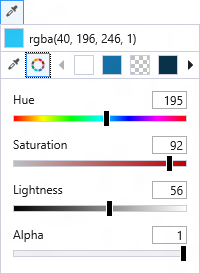
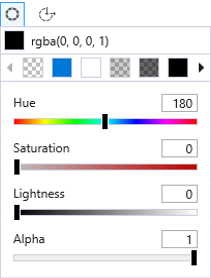
Small changes and updates to the DOM Explorer pages

diff --git a/f12-devtools-guide/dom-explorer/README.md b/f12-devtools-guide/dom-explorer/README.md
@@ -3,7 +3,7 @@
 Use the DOM Explorer tool to see the state of your webpage's DOM (Document Object Model), examine HTML structure and CSS styles, and test changes to solve display issues.
 
 ## Enter the DOM
-HTML and CSS files are the blueprints a browser uses to build the DOM (Document Object Model), which it then uses to render a webpage. The **DOM Explorer** tool shows you a webpage's integrated structure and allows you to change styles, move HTML elements, and change element attributes without having to edit the page's source files.
+HTML and CSS files are the blueprints a browser uses to build the DOM (Document Object Model), which it then uses to render a webpage. The **DOM Explorer** tool shows you a webpage's integrated structure and allows you to change styles, move and edit HTML elements, and change element attributes without having to edit the page's source files.
 
 This helps you diagnose problems in live code when elements aren't in the right place or don't behave as expected, and then work to solve them.
 
@@ -27,18 +27,17 @@ There are five ways to select an element to inspect:
 
 ![video](../media/Edge_DomExplorer_selectelement.mp4,../media/Edge_DomExplorer_selectelement.webm)  
 
-When an element has been inspected, it's highlighted.
+When an element has been inspected, it's highlighted if **DOM element highlighting** is enabled.
 
 ![Edge DOM Explorer](../media/Edge_DOMExplorer_elementhighlighting.PNG)
 
 
-The highlight displays not only the element boundaries *(blue)*, but the boundaries of its padding *(pink)*, borders *(green)*, and margin *(yellow)*. It can be toggled on or off using the second button to the right of the **DOM Explorer** tool's title.
+The highlight displays not only the element boundaries *(blue)*, but the boundaries of its padding *(pink)*, borders *(green)*, and margin *(yellow)*. It can be toggled on or off using the second button to the right of the **DOM Explorer** tool's title or by pressing CTRL + SHIFT + I.
 
 ### Editing an element
 There are three ways to edit an element:
 
-  - **Edit attributes:** You can edit an attribute by double-clicking it, or selecting the element, pressing **Enter**, and then tabbing through the attributes.
-
+  - **Edit attributes:** You can edit an attribute by double-clicking it; or after selecting the element, by pressing **Enter**, and then tabbing through the attributes.
    When you edit a class attribute, a list of matching classes from your styles are suggested. Double-click a suggestion or navigate to it with your arrow keys and press **Tab** or **Enter** to select it.
 
   - **Add an attribute:** Right-click the element and click **Add attribute**.
@@ -47,7 +46,7 @@ There are three ways to edit an element:
 
 ![video](../media/Edge_DomExplorer_editingelement.mp4,../media/Edge_DomExplorer_editingelement.webm)  
 
-**Important**  The doctype, html, head, body, and script elements can't be edited as HTML in the DOM Explorer.
+> The doctype, html, head, body, and script elements can't be edited as HTML in the DOM Explorer.
 
 If your changes don't produce the desired result, press CTRL + Z to undo the last change. CTRL + Y will redo the change.
 
@@ -59,14 +58,19 @@ Elements can be moved in two ways:
   - **Cut/copy, and paste:** Use right-click context menus or keyboard shortcuts to cut, copy, and paste elements.
    When you copy an element and then paste with CTRL + V, the element on the clipboard is pasted in as a child of the selected   element. Right-click the element to use the **Paste before** option from the context menu.
 
-  **Note**  Don't use the **Copy element with styles** option in the context menu to move an element within the DOM. It places an HTML document containing the element and all its related styles on the clipboard for pasting to an external editor.
+ > Don't use the **Copy element with styles** option in the context menu to move an element within the DOM. It places an HTML document containing the element and all its related styles on the clipboard for pasting to an external editor.
 
 ![video](../media/Edge_DomExplorer_dragdrop.mp4,../media/Edge_DomExplorer_dragdrop.webm) 
+
+### Color picker
+Next to the element selection and highlighting buttons at the top of the DOM Explorer tab is the color picker. You can open the picker pane by clicking the button or pressing CTRL + K. At the top of the pane are common colors from the current document for ease of access, and beneath those suggestions are sliders which let you create a custom color.
+
+![Edge Color picker](../media/colorpicker.png) 
 
 ### The styles pane
 The **styles pane** provides different views for looking at what styles are being applied to the element and what code is being triggered by events associated with it.
 
-The styles pane has five tabs: [Styles](#styles), [Computed](#computed), [Layout](#layout), [Events](#events), and [Changes](#changes), in addition to the [Pseudo State](#pseudo-state) selector and the [Color Picker](#color-picker).
+The styles pane has six tabs: [Styles](#styles), [Computed](#computed), [Layout](#layout), [Events](#events), [Changes](#changes), and [Accessibility](./accessibility-tools) (covered in a separate section). In addition, there is a button in the pane for the [Pseudo State](#pseudo-state) selector.
 
 ![video](../media/Edge_DomExplorer_stylespane.mp4,../media/Edge_DomExplorer_stylespane.webm)  
 
@@ -75,7 +79,7 @@ The **Styles** tab is a list of all the styles associated with the selected elem
 
 Style properties currently applied to the element appear on the top of the style pane, along with a link to the .css file path, line #, and column # where that style is defined. Inherited styles are listed below, identifying which ancestor the inherited styles come from.
 
-You can turn style property on or off by checking or unchecking the box to the left of the property. When unchecked, the style will be crossed out and an inherited style below may become active (removing it's strikeout). The style pane also breaks out which styles are being applied due to [CSS media queries](https://msdn.microsoft.com/library/bg124120.aspx).
+You can turn style property on or off by checking or unchecking the box to the left of the property. When unchecked, the style will be crossed out and an inherited style below may become active (removing its strikeout). The style pane also breaks out which styles are being applied due to [CSS media queries](https://msdn.microsoft.com/library/bg124120.aspx).
 
 ![video](../media/Edge_DomExplorer_inheritingstyles.mp4,../media/Edge_DomExplorer_inheritingstyles.webm) 
 
@@ -83,9 +87,9 @@ The style pane updates in real time, so if you have media queries based on windo
 
 #### Editing styles
 
-To edit a rule name or property, click it. When typing a property name, matching CSS property names are suggested. When typing a property value, if that property has a defined set of possible values, matching values are suggested. Double-click a suggestion or navigate to it with your arrow keys and press Tab or **Enter** to select it.
+To edit a rule name or property, click it. When typing a property name, matching CSS property names are suggested. When typing a property value, if that property has a defined set of possible values, matching values are suggested. Double-click a suggestion or navigate to it with your arrow keys and press **Tab** or **Enter** to select it.
 
-To add a new rule or add a property to an existing rule, right-click in the tab and click **Add rule** or Add property.
+To add a new rule or add a property to an existing rule, right-click in the tab and click **Add rule** or **Add property**.
 
 ![video](../media/Edge_DomExplorer_editingstyles.mp4,../media/Edge_DomExplorer_editingstyles.webm) 
 
@@ -102,7 +106,7 @@ Examples of computed values:
 
   - **Precise calculations / relative to absolute values:** All properties without hardcoded measures, such as calc() expressions, percentages, em or rem units, are shown with the pixel values calculated for them.
 
-![Edge Computed Sizes](../media/Edge_DOMExplorer_computedstyles.PNG)
+    ![Edge Computed Sizes](../media/Edge_DOMExplorer_computedstyles.PNG)
 
   - **Implied and default values:** The **Computed** styles tab has a **Display user styles only** button ![Display all styles button](../media/F12BlueDOMExplorerDisplayStyles.png).
 
@@ -131,15 +135,15 @@ In the image above, one element's click event is being handled by two functions 
 
 As you experiment with different layout and style changes in the **DOM Explorer**, it's easy to lose track of everything you changed. The **Changes** tab shows a list of all the changes you've made to the DOM structure and CSS styles in your current session with the **DOM Explorer**. Original and current values are shown with different highlight colors.
 
-If you decide you don't like one of the changes, right-click it and select **Revert item** to reverse that change. If you'd like to copy the style to paste into your source files, use **Copy** to copy a single style or **Copy All** to copy all the changed styles in the list.
+If you decide you don't like one of the changes, right-click it and select **Revert item** to reverse that change. If you'd like to copy the style to paste into your source files, use **Copy** to copy a single style or **Copy all** to copy all the changed styles in the list.
 
 ![Changes tab](../media/Edge_DOMExplorer_changes.png)
 
-**Note**  The **Changes** tab will clear if you close the F12 developer tools, but the changes you made with DOM Explorer persist until you refresh the webpage. For example, you can change the width of an element, close the F12 tools, reopen them, and the element remains at its new width while the Changes tab shows no changes.
+> The **Changes** tab will clear if you close the F12 developer tools, but the changes you made with DOM Explorer persist until you refresh the webpage. For example, you can change the width of an element, close the F12 tools, reopen them, and the element remains at its new width while the Changes tab shows no changes.
 
 ### Pseudo state
 
-In the upper-right corner of the **Styles** and **Computed** tabs is an icon resembling **a:**. That's called the "pseudo-class toggle." When turned on, check boxes are shown for the common **:hover** and **:visited** pseudo classes. Checking one of those boxes restyles the element as if that pseudo class is active.
+In the upper-right corner of the **Styles** and **Computed** tabs is an icon resembling **a:**. That's called the "pseudo-state toggle." When turned on, check boxes are shown for the common **:active**, **:focus**, **:hover**, and **:visited** pseudo classes. Checking one of those boxes restyles the element as if that pseudo class is active.
 
 ![Changes tab](../media/Edge_DOMExplorer_pseudostate.PNG)
 

diff --git a/f12-devtools-guide/dom-explorer/Accessibility-Tools/README.md b/f12-devtools-guide/dom-explorer/Accessibility-Tools/README.md
@@ -3,17 +3,17 @@
 The new accessibility tools within the **DOM Explorer** tool are designed to help you verify and test the accessibility of your website. 
 
 ## Accessibility tree
-Use the **Accessibility tree** to view how your website is interpreted by assistive technologies, like screen readers, and what data it’s providing to assistive technologies. To view the **Accessibility tree**, select the **DOM Explorer** tool and click the **Accessibility tree** icon, or press Ctrl + Shift + A.
+Use the **Accessibility tree** to view how your website is interpreted by assistive technologies, like screen readers, and what data it’s providing to assistive technologies. To view the **Accessibility tree**, select the **DOM Explorer** tool and click the **Accessibility tree** icon, or press CTRL + SHIFT + A.
 
 ![F12 Accessibility tree button](../../media/F12_a11y_treebutton.png)
 
-The **Accessibility tree** works side-by-side with the **DOM tree**.  As you select elements on your website with the **Select element** tool or in the **DOM tree**, they are also selected in the **Accessibility tree**.  The **Accessibility tree** helps you, for example, verify that a `div` element with a `role="button"` will be correctly interpreted as a button by assistive technologies. 
+The **Accessibility tree** works side-by-side with the **DOM tree**.  As you select elements on your website with the **Select element** tool or in the **DOM tree**, they are also selected in the **Accessibility tree**.  The **Accessibility tree** helps you, for example, verify that a `div` element with a `role="button"` attribute will be correctly interpreted as a button by assistive technologies. 
 
 ![F12 DOM tree and Accessibility tree](../../media/F12_a11y_tree.PNG)
 
 ## Accessibility tab
 
-Use the **Accessibility tab** to view all the properties that relate to accessibility on the selected element. To view the **Accessibility tab**, select the **DOM Explorer** tool, and select Accessibility in the **styles pane**. Inside the **Accessibility tab**, you can hover over a property name for a description of the property. 
+Use the **Accessibility tab** to view all the properties that relate to accessibility on the selected element. To view the **Accessibility tab**, select the **DOM Explorer** tool, and select Accessibility in the **Styles pane**. Inside the **Accessibility tab**, you can hover over a property name for a description of the property. 
 
 ![F12 Accessibility properties tab](../../media/F12_a11y_accessibilityTools.PNG)
 
